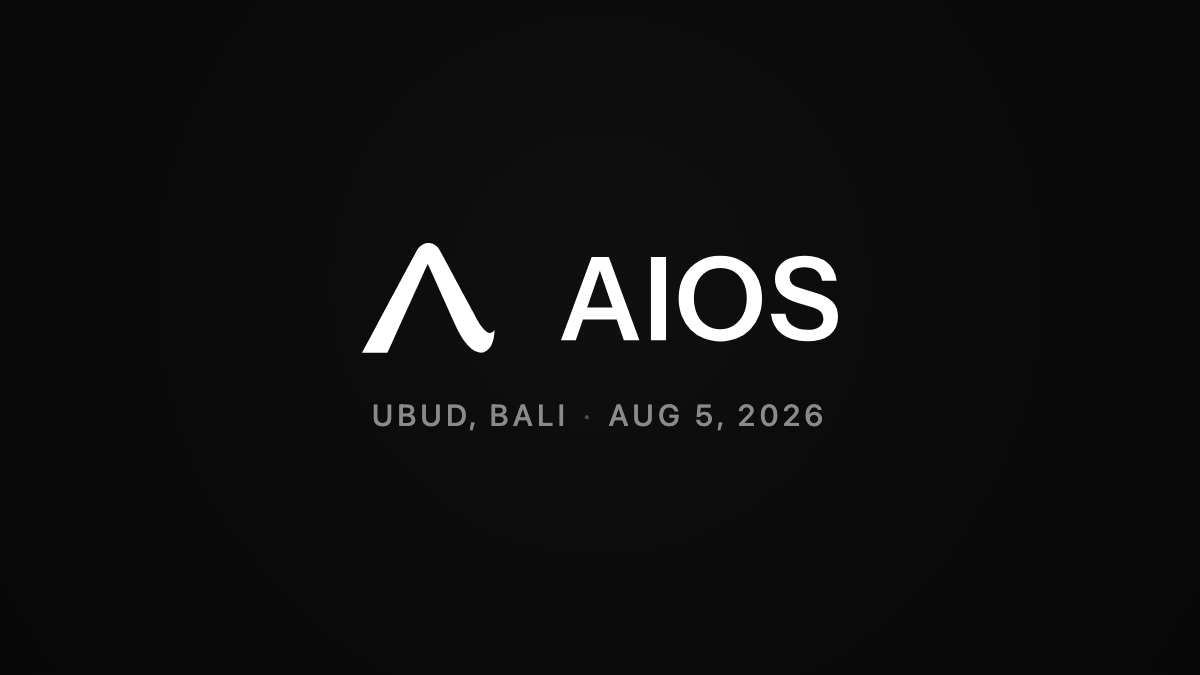
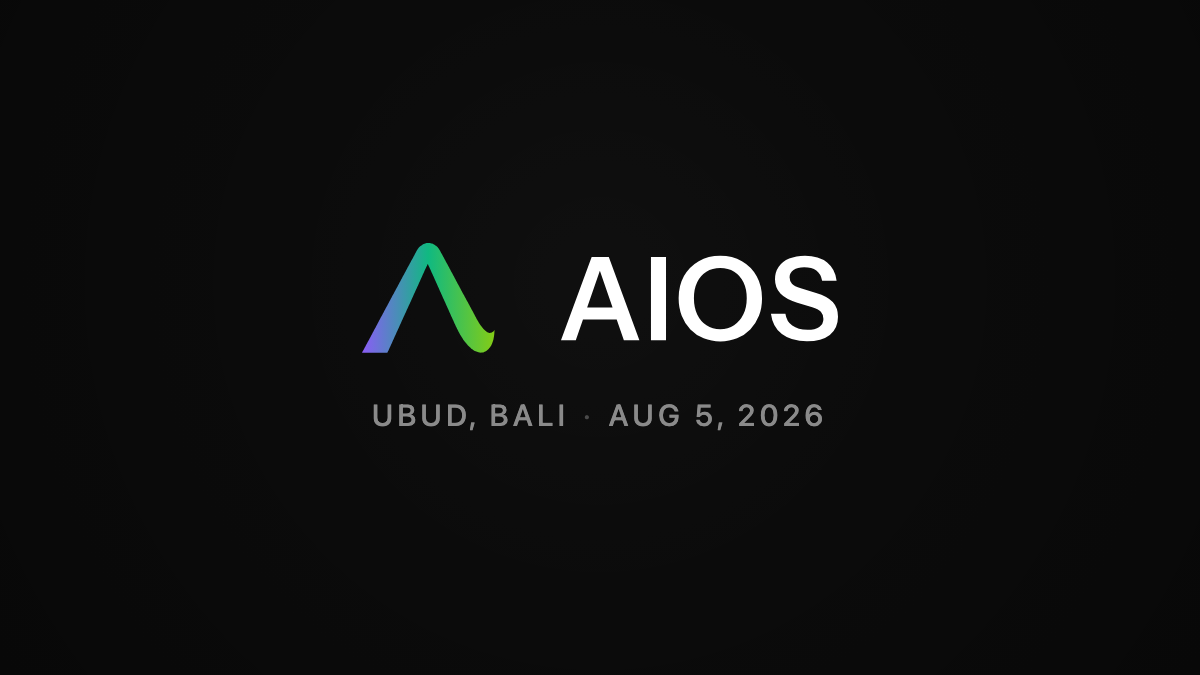
feat(brand): campaign artwork takes the display lockup (design 0.5.0) (#7)
John's call after reviewing the monochrome rollout: monochrome is right for UI
and too strict for brand artwork. On a solid black cover, where the logo is the
subject, a flat white lockup reads as a placeholder rather than a brand.

- Both Ubud covers now use the display lockup — prism mark, flat white wordmark.
- visual-identity.md restates the rule by context: the wordmark is never coloured
  (absolute), product UI is monochrome, brand artwork gets the gradient mark. The
  video section is updated, including an explicit no on animating a gradient
  sweep across the letterforms.
- Brand assets resynced from @aios-alpha/design 0.5.0, which adds the four
  display lockups.
- Decision log entry 5.

Changed region(s): [[0.3083, 0.3422, 0.4317, 0.5289]]

diff --git a/2-work/campaigns/2026-08-05-aios-onboarding-ubud/cover-image.html b/2-work/campaigns/2026-08-05-aios-onboarding-ubud/cover-image.html
@@ -16,7 +16,7 @@
 <body>
   <div class="canvas">
     <div class="content">
-      <img class="lockup" src="../../../0-context/brand/assets/aios-lockup-stacked-white.svg" alt="AIOS" />
+      <img class="lockup" src="../../../0-context/brand/assets/aios-lockup-stacked-display-white.svg" alt="AIOS" />
       <div class="subtitle">Ubud, Bali<span class="dot">&middot;</span>Aug 5, 2026</div>
     </div>
   </div>

diff --git a/2-work/campaigns/2026-08-05-aios-onboarding-ubud/cover-image-16x9.html b/2-work/campaigns/2026-08-05-aios-onboarding-ubud/cover-image-16x9.html
@@ -16,7 +16,7 @@
 <body>
   <div class="canvas">
     <div class="content">
-      <img class="lockup" src="../../../0-context/brand/assets/aios-lockup-white.svg" alt="AIOS" />
+      <img class="lockup" src="../../../0-context/brand/assets/aios-lockup-display-white.svg" alt="AIOS" />
       <div class="subtitle">Ubud, Bali<span class="dot">&middot;</span>Aug 5, 2026</div>
     </div>
   </div>

diff --git a/0-context/brand/visual-identity.md b/0-context/brand/visual-identity.md
@@ -11,19 +11,28 @@ Local copies of every asset live in `assets/`.
 
 ## The one rule
 
-**The AIOS logo is monochrome.** One ink colour, always. The prism gradient is allowed on the
-**bare mark only** — never on letterforms, never inside a lockup, never next to the wordmark.
+**The wordmark is never coloured.** One flat ink, always, in every context. No exceptions.
 
-This exists because it kept going wrong. A multicolour wordmark (gradient `A`, lime `I`, white
-`OS`) was circulating on the link-preview card, a hand-drawn stroked chevron was used on this
-repo's own campaign covers, and neither matched the site. All of it is retired.
+What varies is the *mark*, and only by context:
+
+- **Product UI and chrome** — the app, the website, docs, anything a user works past — is
+  **fully monochrome**. That's the product's job, not ours, but know the rule so you don't
+  hand a designer the wrong asset.
+- **Brand artwork** — what this repo makes: event covers, social tiles, post images, decks,
+  video. Here the mark carries the **prism gradient** beside a flat-ink wordmark. That's the
+  **display lockup**. On a black field it reads as a brand rather than as UI furniture.
+
+The wordmark rule exists because it kept going wrong. A multicolour wordmark (gradient `A`, lime
+`I`, white `OS`) was circulating on the link-preview card, a hand-drawn stroked chevron was used
+on this repo's own campaign covers, and neither matched the site. All of it is retired.
 
 ## What to reach for
 
 | Artwork | Asset |
 |---|---|
-| Wide canvas — banner, slide master, video lower-third, email header | `assets/aios-lockup-white.svg` (or `-black` on light) |
-| Square-ish canvas — event cover, social tile, title card | `assets/aios-lockup-stacked-white.svg` |
+| Wide canvas — banner, slide master, video lower-third, email header | `assets/aios-lockup-display-white.svg` (or `-black` on light) |
+| Square-ish canvas — event cover, social tile, title card | `assets/aios-lockup-stacked-display-white.svg` |
+| Somewhere the colour would fight the artwork — a busy photo, a coloured plate | the mono `assets/aios-lockup-white.svg` / `-stacked-white.svg` |
 | Avatar, profile picture, favicon | `assets/aios-app-icon.svg` |
 | A hero or sting where the logo is the whole image, ≥48px | `assets/aios-mark-prism.svg` |
 | The symbol alone, where "AIOS" already appears in type nearby | `assets/aios-mark-white.svg` |
@@ -43,15 +52,17 @@ they're for inline SVG and CSS masks only.
 
 ## Video
 
-- Lower-third and end card: `aios-lockup-white.svg`, single ink, no glow, no drop shadow,
-  no animated gradient sweep across the letterforms.
+- Lower-third and end card: `aios-lockup-display-white.svg` — gradient mark, flat white
+  wordmark. No glow, no drop shadow, and **no animated gradient sweep across the letterforms**;
+  the wordmark stays one flat ink even in motion.
 - If you want the gradient in motion, it's the **bare mark** that carries it, alone, on a dark
   field — a sting, then cut. Not a gradient wipe over type.
 - Keep one mark per frame. Mark plus wordmark plus a repeated mark in the corner is three logos.
 
 ## Don't
 
-- Don't recolour the wordmark, per-letter or otherwise.
+- Don't recolour the wordmark, per-letter or otherwise. The gradient belongs to the mark.
+- Don't use a display lockup in a product screenshot or UI mockup — interfaces are monochrome.
 - Don't redraw the mark. There is no situation where hand-drawing a chevron is correct.
 - Don't set `AIOS` in Instrument Serif as a wordmark — that's a headline face, not the logo.
 - Don't put the logo on a busy photo without a solid or scrimmed plate behind it.

diff --git a/3-log/decision-log.md b/3-log/decision-log.md
@@ -2,6 +2,7 @@
 
 | # | Date | Decision | Rationale | Decided By | Impact | Type | Audience |
 |---|------|----------|-----------|------------|--------|------|----------|
+| 5 | 2026-08-18 | Brand artwork uses the **display lockup** (prism mark + flat-ink wordmark); product UI stays monochrome | 0.4.0's blanket monochrome rule was right for interfaces and too strict for artwork — on a solid black cover, where the logo is the subject, a flat white lockup reads as a placeholder rather than a brand. The wordmark is still never coloured in either context | John | Campaign covers, social tiles, decks and video take `assets/aios-lockup-display-*.svg`; `visual-identity.md` now splits the rule by context | 2 | team |
 | 4 | 2026-08-18 | All AIOS campaign artwork uses the canonical monochrome logo from `@aios-alpha/design`; local copies live in `0-context/brand/assets/` | Six inconsistent AIOS logos were in circulation, including a hand-drawn stroked chevron used on this repo's own event cover that matched neither the site nor the mark. Marketing had a tone-of-voice guide and a positioning guide but no visual-identity guide, so artwork was improvised per campaign | John + agent | Every cover/social/video asset is rebuilt from the shipped lockups; `0-context/brand/visual-identity.md` is now a gate alongside `positioning-rules.md` | 2 | team |
 | 3 | 2026-07-30 | Repo created private initially, flips to public after John reviews tone/persona docs | Cheap insurance against an NDA/PII slip before it's on a public GitHub history, which is hard to truly scrub | John + agent | One extra `gh repo edit --visibility public` step before the repo is discoverable | 2 | team |
 | 2 | 2026-07-30 | Applicant-review automation is spec-only for this pass — captured as Linear issue AIO-634, not built | 6-day runway to the Aug 5 event; ships copy + reusable system now, automation as a fast-follow so the event announcement isn't blocked on infra work | John | Aug 5 event's application review happens fully manually; pipeline gets built against a documented spec afterward | 2 | team |
